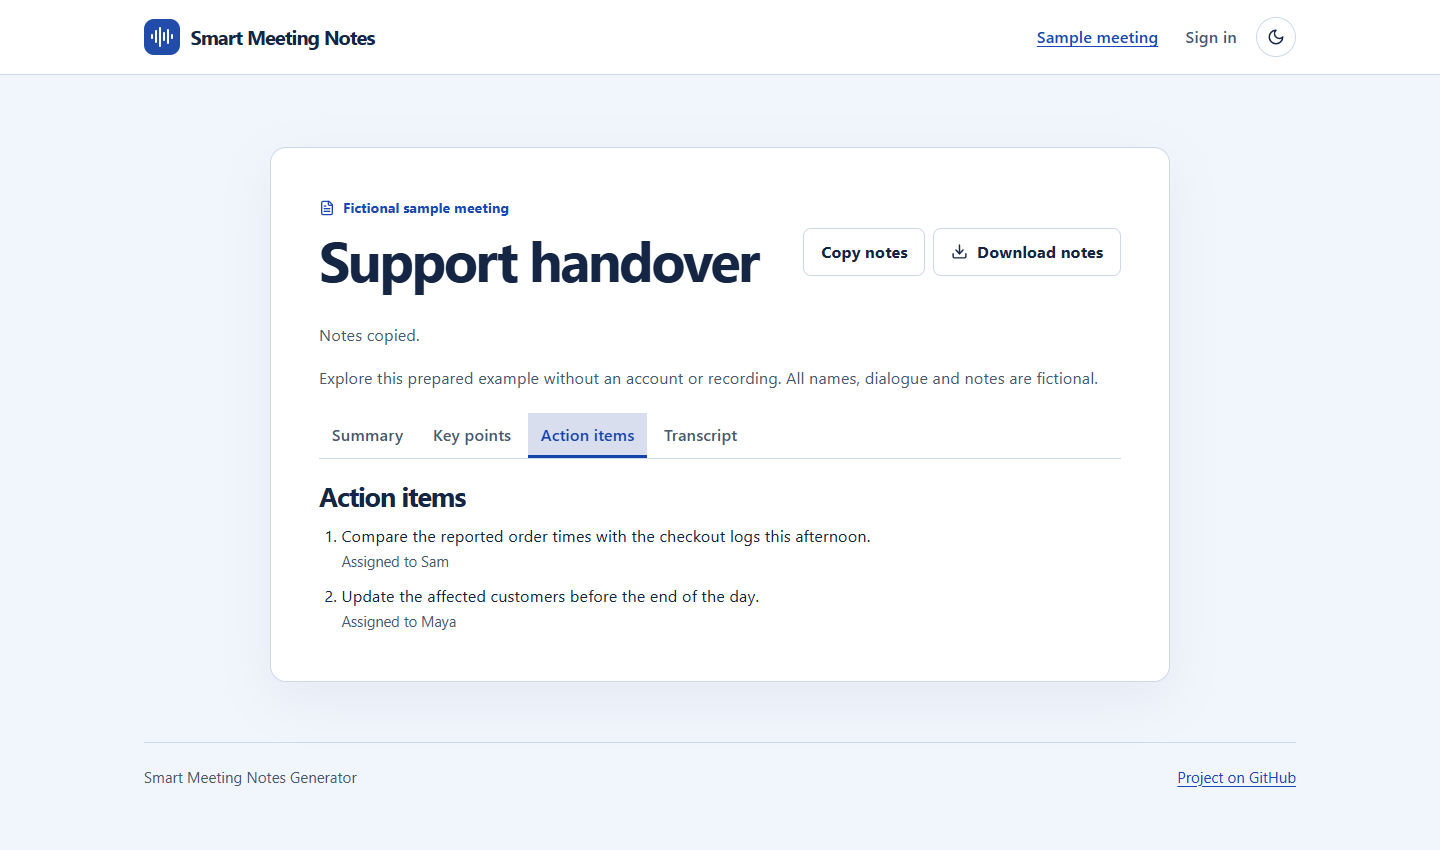
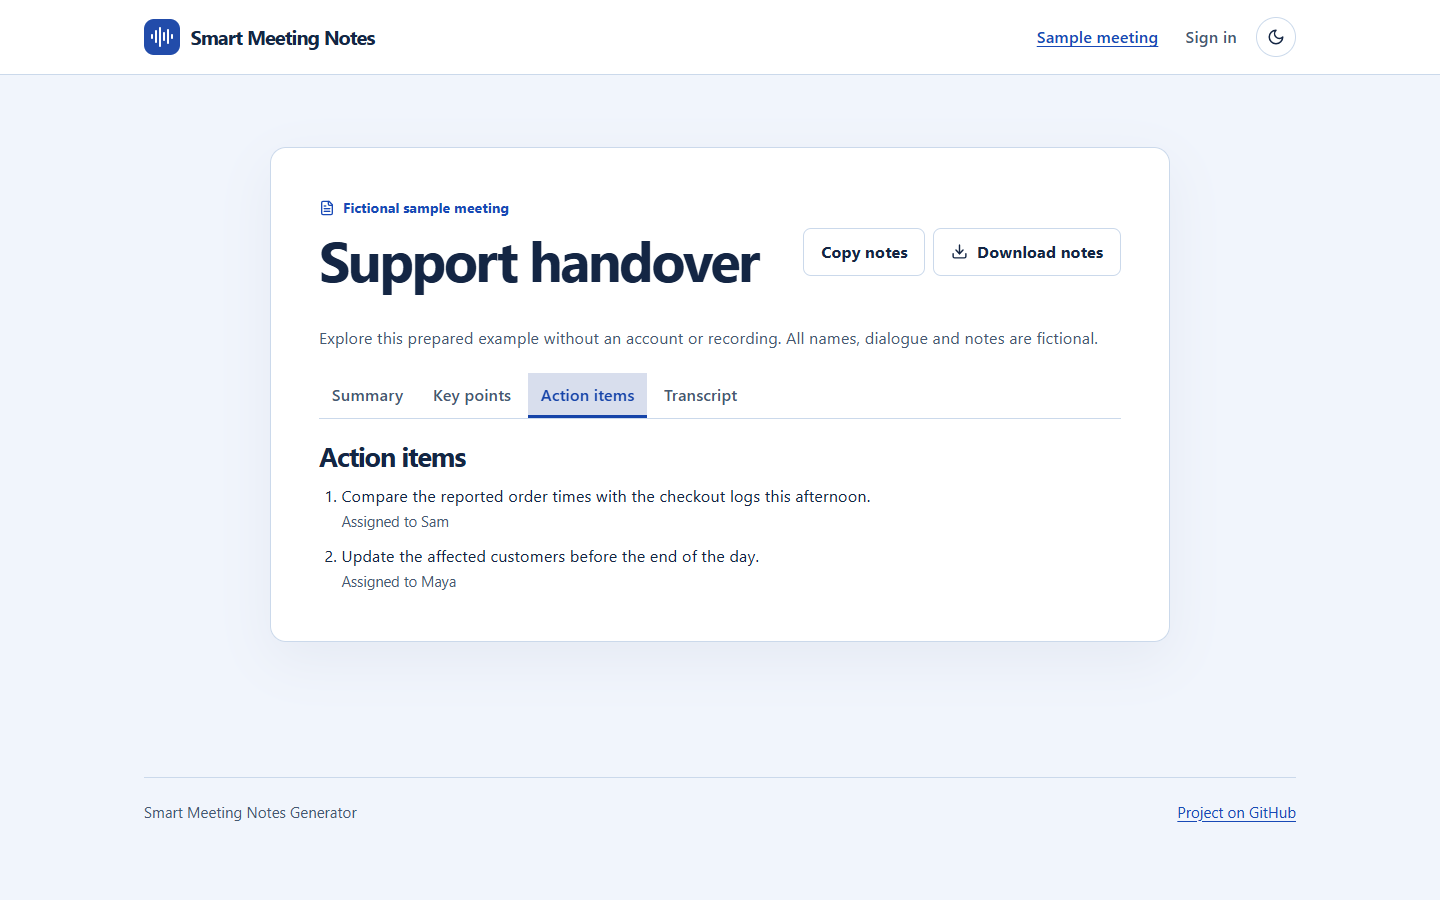
Record public deployment checks and add mobile and desktop walkthrough images

diff --git a/AUDIT.md b/AUDIT.md
@@ -38,10 +38,14 @@ Firebase web configuration identifies a client project and is distributed to bro
 | Backend npm security audit | Passed | Zero reported advisories after lockfile remediation. |
 | Groq model availability | Passed live | Both model IDs returned by the authenticated models endpoint. |
 | Live transcription and notes | Passed live, local API | Synthesized a fictional support handover on Windows. A real Firebase user uploaded it (201), the second user received 404, polling reached ready and Groq returned a transcript, summary and two action items. Both temporary accounts were deleted. |
-| Hosted live API and end-to-end HTTPS communication | Pending | Railway CLI reported Unauthorized. Sign-in, verified live allowlist and host configuration required. Docker CLI was unavailable locally. |
+| Public frontend | Passed live | Opened the fictional sample at its public HTTPS URL in Chrome, switched to the transcript and downloaded the notes. |
+| Frontend tests and dependency audit | Passed | Three frontend tests passed. The production Vite build completed and npm reported zero known advisories. |
+| Hosted API | Awaiting runtime credential | Railway login succeeded and the Node 22 Docker image built remotely. The service has an HTTPS domain and a production allowlist. The first health check returned 502 while the required Groq secret was missing. |
 
 Run `npm ci && npm test && npm audit` inside backend. The API regression suite needs no real credentials. For a live functional test, sign in with a verified allowlisted Firebase account, upload a short synthetic recording that explicitly states one action item, wait for ready, inspect the transcript and download the notes. The [deployment guide](DEPLOYMENT.md) includes exact host settings and expected responses.
 
 ## Residual operating limits
 
 The app sends recording content to Groq. Use synthetic audio for public demonstrations. Data disappears on restart. Multiple instances would have independent stores and quotas; deploy one instance. Long or noisy recordings can fail even within the byte limit; a transcript above 100,000 characters is rejected. Container signatures are a basic format check, and provider availability, free quotas, model behavior and cold starts are external dependencies.
+
+The hosted sample also passed Chrome layout checks at 320, 390, 768 and 1440 CSS pixels. Summary, transcript, key points and action items opened at each width with no horizontal overflow. The screenshots in docs/ contain fictional sample content. The GitHub Actions push and pull request checks passed for the reviewed application code.

diff --git a/DEPLOYMENT.md b/DEPLOYMENT.md
@@ -38,6 +38,10 @@ Cloudflare Free currently permits 500 builds per month with a 20-minute build ti
 
 [Railway monorepo settings](https://docs.railway.com/deployments/monorepo) · [Health checks](https://docs.railway.com/deployments/healthchecks) · [Groq speech upload limits](https://console.groq.com/docs/speech-to-text) · [Groq models](https://console.groq.com/docs/models).
 
+## Current public frontend
+
+The [GitHub Pages demo](https://moeezsajjad.github.io/Smart-Meetings-Notes-Generator/#/sample) is deployed from the gh-pages branch of this public repository. Its production client uses hash routing, relative assets, the Firebase web configuration and the Railway HTTPS origin. Open the sample without signing in. To publish an update, build the frontend with VITE_ROUTER_MODE set to hash and the public variables from frontend/.env.example, commit dist contents to gh-pages, then verify the site on HTTPS.
+
 ## Current hosted backend
 
 The Railway project is **smart-meetings-demo**, service **api**, environment **production**. Its assigned origin is [api-production-14144ac0.up.railway.app](https://api-production-14144ac0.up.railway.app/api/health). The initial Docker build succeeded on Node.js 22.23.5. Activation requires setting the Groq runtime secret and obtaining HTTP 200 from the health endpoint. The CLI verified a 30-day trial with no payment method and a zero current bill on 26 November 2026. Select Free when the trial ends to continue within the monthly free allowance.

diff --git a/README.md b/README.md
@@ -40,3 +40,7 @@ Open the URL printed by Vite. The sample needs no account or API keys. For live 
 - [Free deployment and troubleshooting](DEPLOYMENT.md)
 
 The API is a single-instance demo. It keeps meeting results in memory for approximately one hour and loses them on restart. Download the notes before they expire. A pending upload can be interrupted by a host restart or quota limit. Accuracy depends on the audio and model. Review generated text before using it.
+
+## Screenshots
+
+[Desktop sample](docs/sample-desktop.png) · [Mobile sample](docs/sample-mobile.png)
